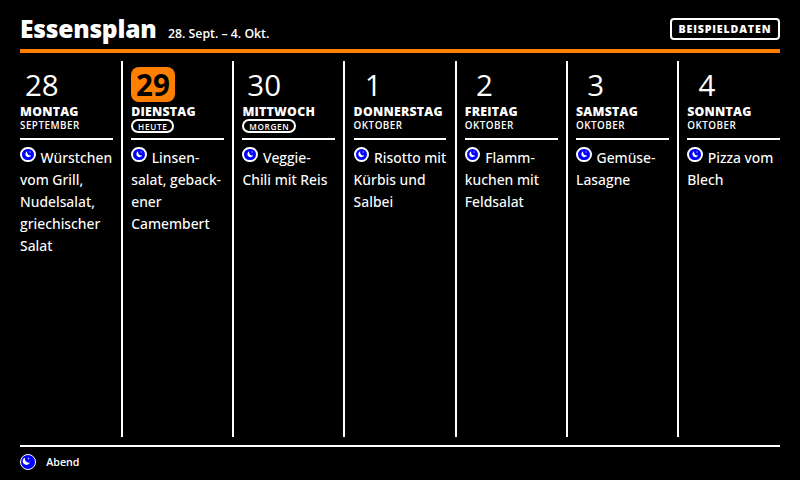
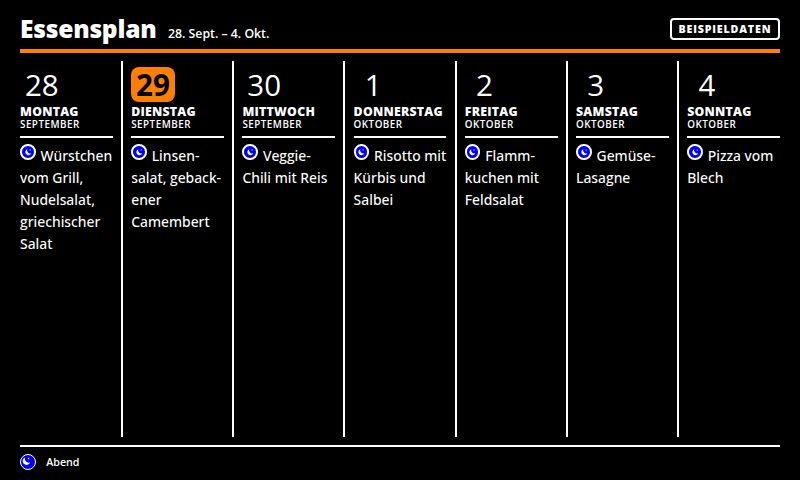
Remove "Today"/"Tomorrow" labels from Meal Plan Calendar
The day order already makes today and tomorrow obvious, so drop the
text labels, their landscape month-line swap, styles and translations.
Today's highlighted date block stays.

Claude-Session: https://claude.ai/code/session_016spRLE17zGqgwacGFc512h

Changed region(s): [[0.0, 0.25, 0.6875, 0.5312], [0.7188, 0.25, 0.9688, 0.4062]]

diff --git a/applications/meal-plan-calendar/assets/render.js b/applications/meal-plan-calendar/assets/render.js
@@ -62,12 +62,6 @@ function formatter(locale, options) {
   return new Intl.DateTimeFormat(locale, { timeZone: "UTC", ...options });
 }
 
-function addDays(key, amount) {
-  const date = dayFromKey(key);
-  date.setUTCDate(date.getUTCDate() + amount);
-  return date.toISOString().slice(0, 10);
-}
-
 function dishBreaks(word) {
   const lower = word.toLowerCase();
   const breaks = new Set();
@@ -129,8 +123,6 @@ function renderMeal(meal, previousSlot, messages) {
 function renderDay(day, data, locale, messages) {
   const date = dayFromKey(day.date);
   const isToday = day.date === data.today;
-  const isTomorrow = day.date === addDays(data.today, 1);
-  const tag = isToday ? messages.today : isTomorrow ? messages.tomorrow : "";
   const weekday = formatter(locale, { weekday: "long" }).format(date);
   const month = formatter(locale, { month: "long" }).format(date);
   let previousSlot = "";
@@ -145,8 +137,8 @@ function renderDay(day, data, locale, messages) {
     <header class="mp-date">
       <span class="mp-num">${date.getUTCDate()}</span>
       <span class="mp-dt">
-        <span class="mp-wd">${escapeHtml(weekday)}${tag ? `<em class="mp-tag mp-tag--inline">${escapeHtml(tag)}</em>` : ""}</span>
-        <span class="mp-mo"><span class="mp-mo-text">${escapeHtml(month)}</span>${tag ? `<em class="mp-tag mp-tag--below">${escapeHtml(tag)}</em>` : ""}</span>
+        <span class="mp-wd">${escapeHtml(weekday)}</span>
+        <span class="mp-mo">${escapeHtml(month)}</span>
       </span>
     </header>
     ${meals ? `<ul class="mp-meals">${meals}</ul>` : `<p class="mp-nothing">${escapeHtml(messages.nothingPlanned)}</p>`}

diff --git a/applications/meal-plan-calendar/render.html b/applications/meal-plan-calendar/render.html
@@ -131,26 +131,11 @@
         min-width: 0;
       }
       .mp-wd {
-        display: flex;
-        align-items: center;
-        flex-wrap: wrap;
-        gap: calc(var(--k) * 6);
         font-size: calc(var(--k) * 18);
         font-weight: 800;
         text-transform: uppercase;
         letter-spacing: 0.04em;
         line-height: 1.15;
-      }
-      .mp-tag {
-        font-style: normal;
-        font-size: calc(var(--k) * 11);
-        letter-spacing: 0.08em;
-        padding: calc(var(--k) * 1) calc(var(--k) * 6);
-        border: var(--mp-line) solid var(--pp-fg);
-        border-radius: 999px;
-      }
-      .mp-tag--below {
-        display: none;
       }
       .mp-mo {
         font-size: calc(var(--k) * 14);
@@ -322,21 +307,6 @@
         }
         .mp-mo {
           font-size: calc(var(--k) * 12);
-        }
-        /* Narrow day columns: "Heute" / "Morgen" replaces the month line. */
-        .mp-tag--inline,
-        .mp-mo:has(.mp-tag--below) .mp-mo-text {
-          display: none;
-        }
-        .mp-mo {
-          display: flex;
-          align-items: center;
-          height: calc(var(--k) * 17);
-        }
-        .mp-tag--below {
-          display: inline-block;
-          font-size: calc(var(--k) * 10);
-          line-height: 1.1;
         }
         .mp-head > div {
           display: flex;

diff --git a/applications/meal-plan-calendar/README.md b/applications/meal-plan-calendar/README.md
@@ -54,7 +54,7 @@ same slot are shown once.
 ## Design notes
 
 - Today's date sits on an orange block (dithered on Spectra 6, black numerals); colored themes use
-  their accent instead. "Today"/"Tomorrow" are also written out.
+  their accent instead.
 - Slot badges use native pigments: yellow with black outline for lunch, blue for dinner, green for
   breakfast. The footer legend names each slot, so color is never the only cue.
 
